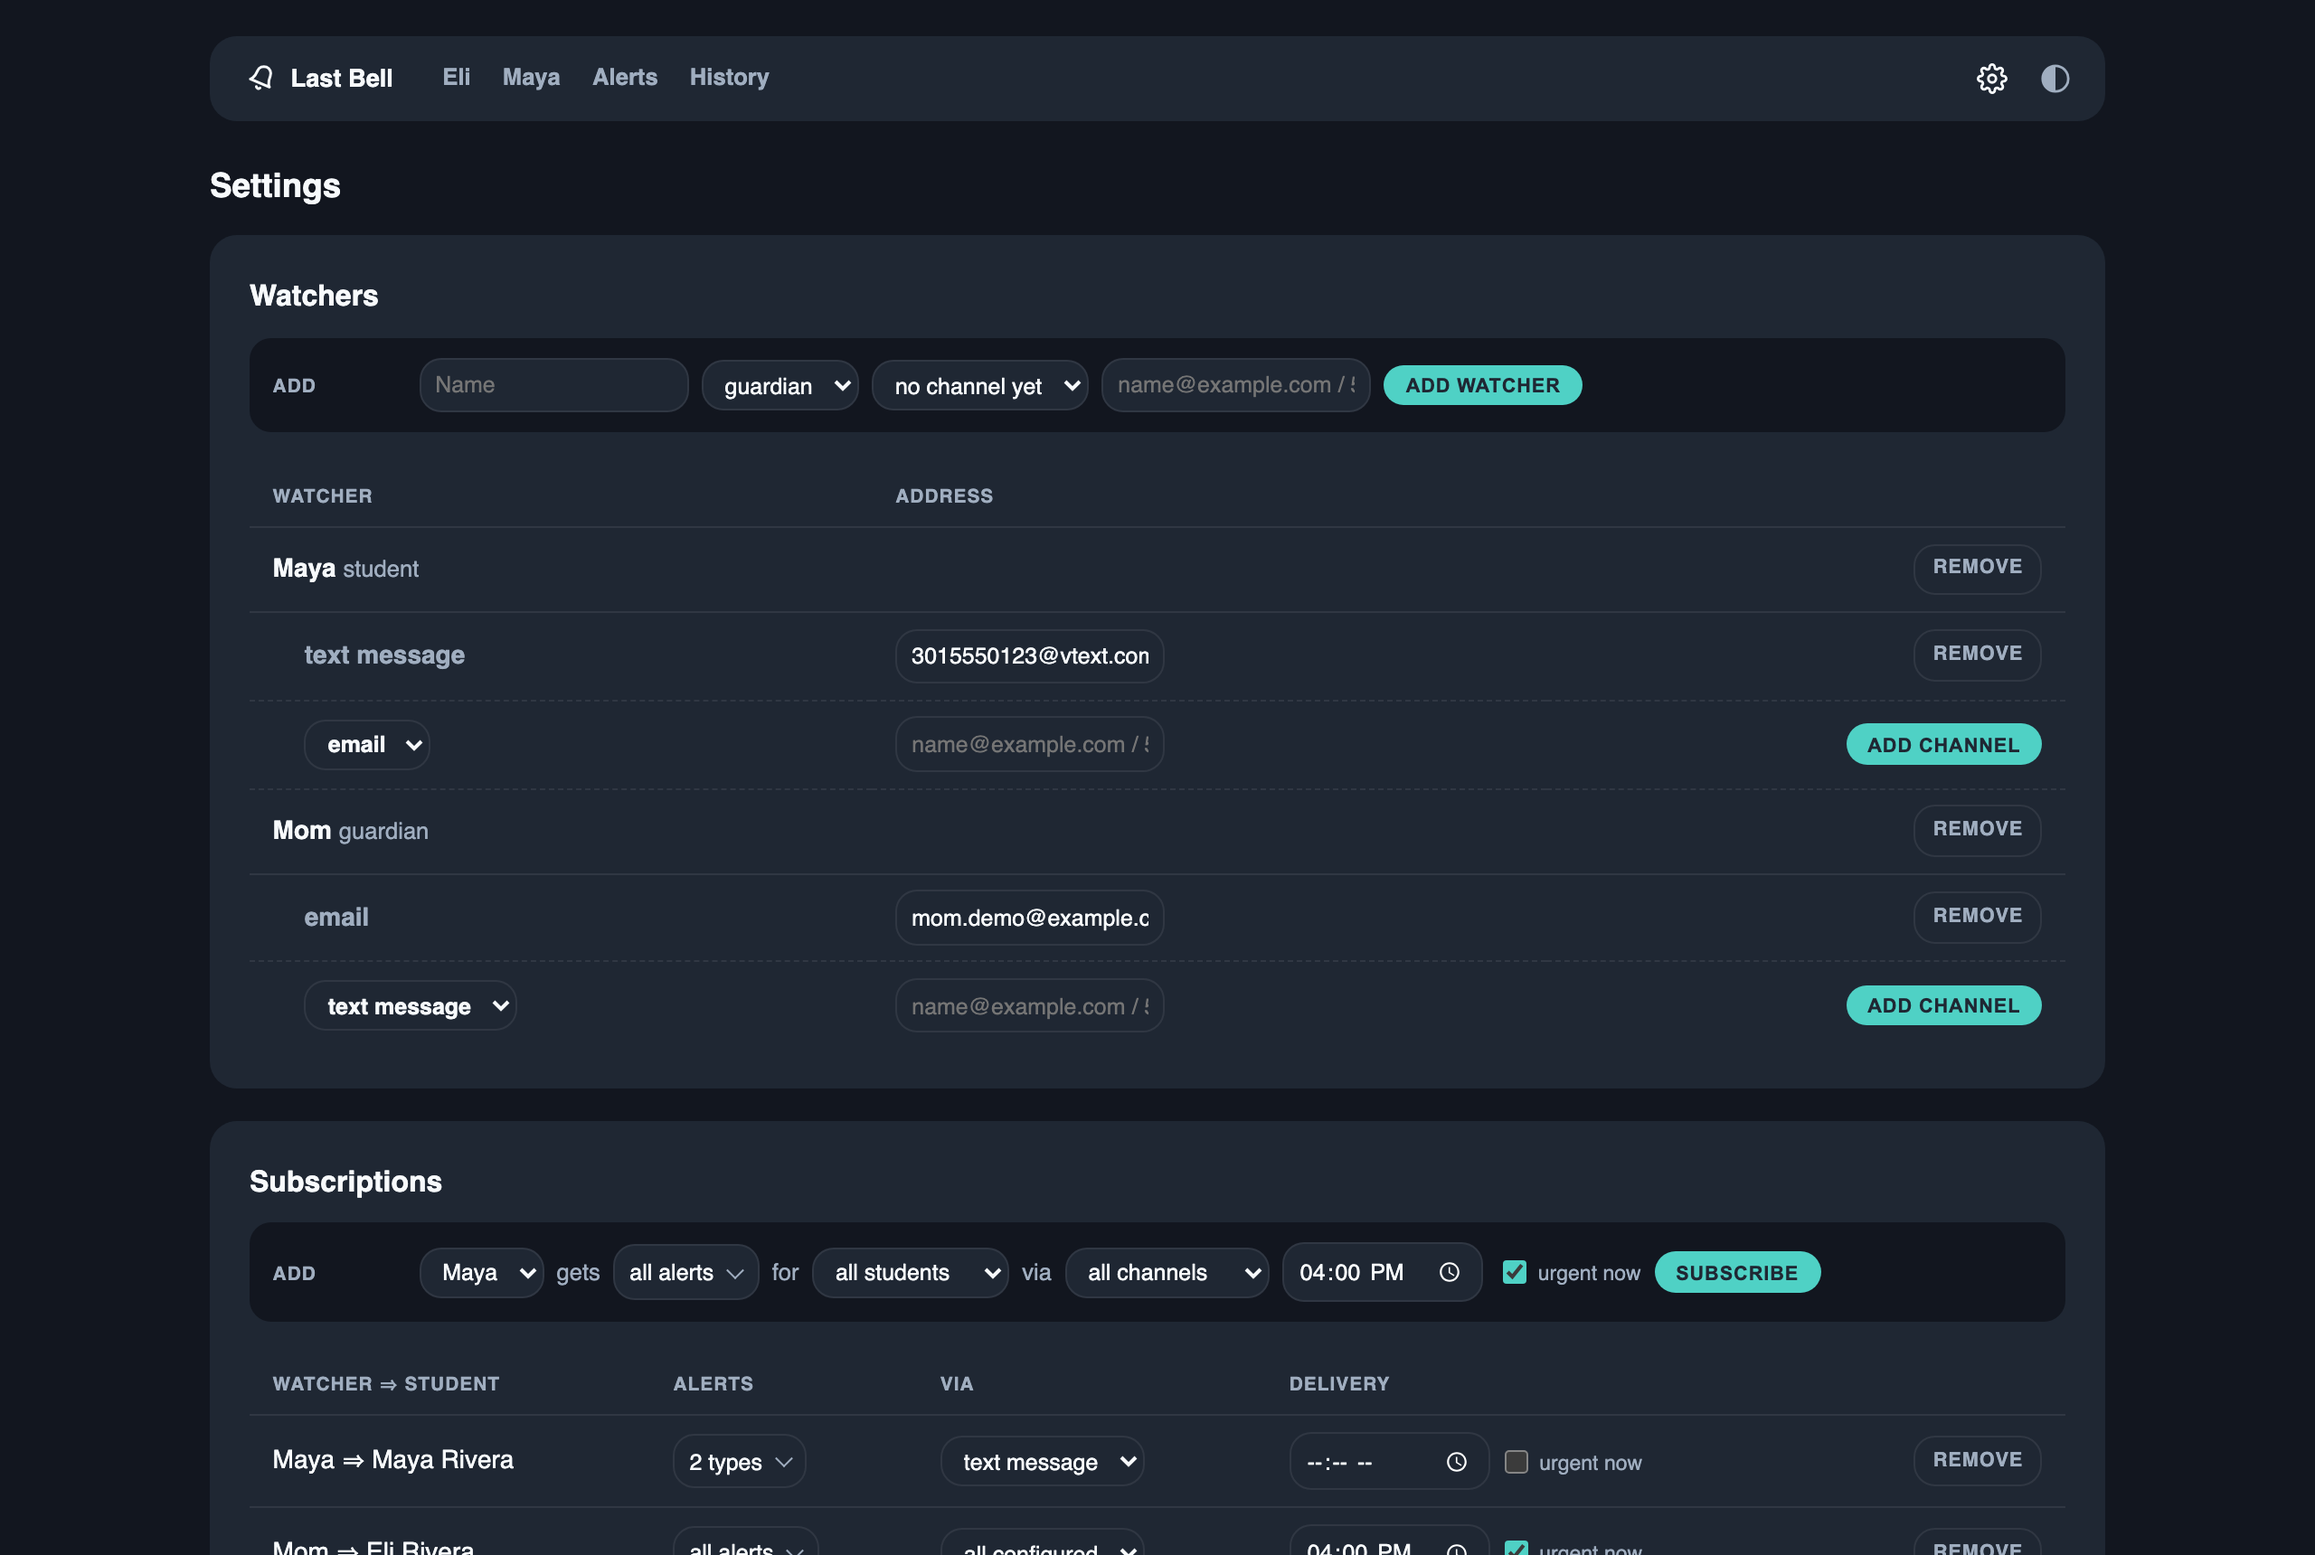
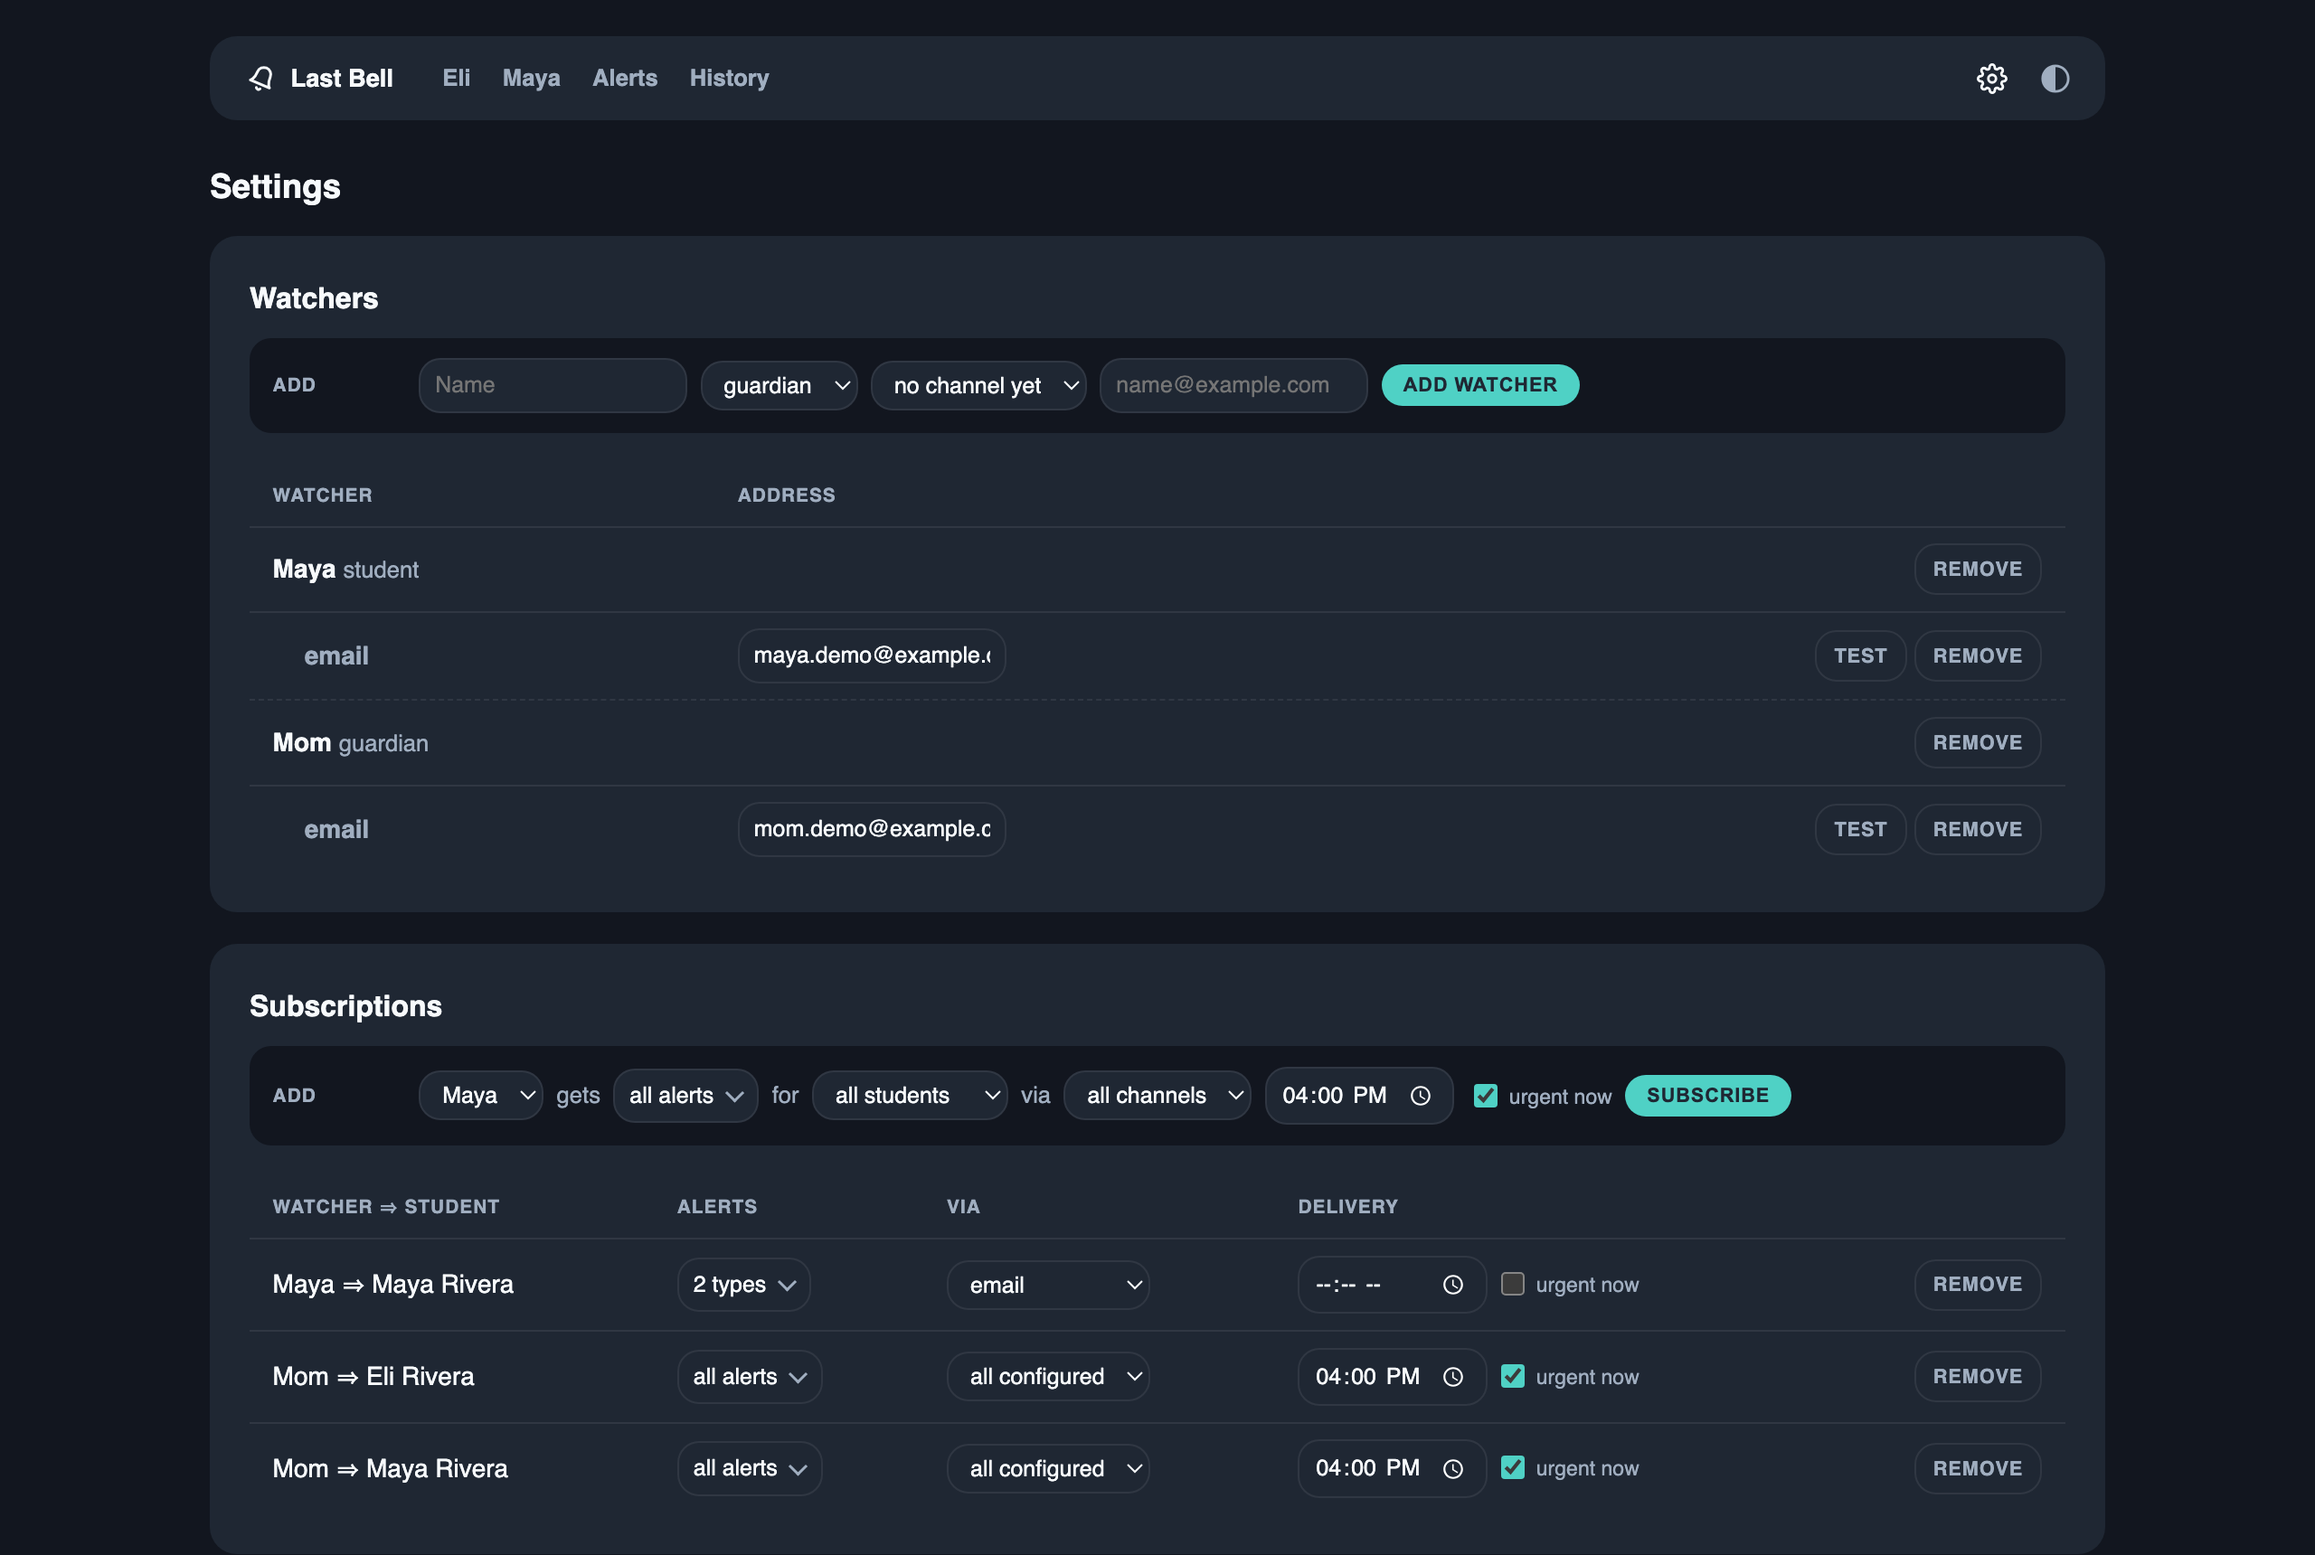
README: Settings screenshot without text message; Upgrading note; demo seed uses email
The seeded demo family gave Maya a text-message channel, so the Settings
screenshot showed a channel 0.1.5 withdrew. Maya now has an email address
in the seed and the screenshot is re-shot (same 1280×860 @2x dark capture;
it also shows the per-row test buttons from 0.1.3). The quickstart gains an
"Upgrading" block — `pipx upgrade lastbell` plus the per-OS restart — which
was documented nowhere except the Check-for-updates toast.

diff --git a/lastbell/seed.py b/lastbell/seed.py
@@ -247,11 +247,11 @@ def seed_demo(conn: sqlite3.Connection, *, seed: int = 2026,
     mom = watchermod.add_watcher(conn, "Mom", WatcherKind.GUARDIAN,
                                  {"email": {"to": "mom.demo@example.com"}})
     maya = watchermod.add_watcher(conn, "Maya", WatcherKind.STUDENT,
-                                  {"sms": {"to": "3015550123@vtext.com"}})
+                                  {"email": {"to": "maya.demo@example.com"}})
     for agu in (_HS.agu, _ES.agu):
         watchermod.subscribe(conn, mom, agu, send_at="16:00", urgent_now=True)
     watchermod.subscribe(conn, maya, _HS.agu,
-                         ["assignment_missing", "upcoming_deadline"], ["sms"])
+                         ["assignment_missing", "upcoming_deadline"], ["email"])
     conn.commit()
 
     return {

diff --git a/README.md b/README.md
@@ -222,6 +222,17 @@ keyring (which a boot-time service can't unlock) into the owner-only settings
 file, and the wizard says so before doing it. The installer also warns if the
 box's clock is on UTC: digests and quiet hours follow the local clock.
 
+**Upgrading.** The dashboard footer's **Check for updates** link tells you
+when a newer release exists. Then, on the machine running it:
+
+```bash
+pipx upgrade lastbell
+```
+
+and restart the running copy so it picks up the new code: on Linux
+`systemctl --user restart lastbell` (plus `lastbell-dashboard` if you set that
+up); on macOS run `lastbell install-service` again, which reloads the agent.
+
 <details>
 <summary>Running from a source checkout instead</summary>
 
